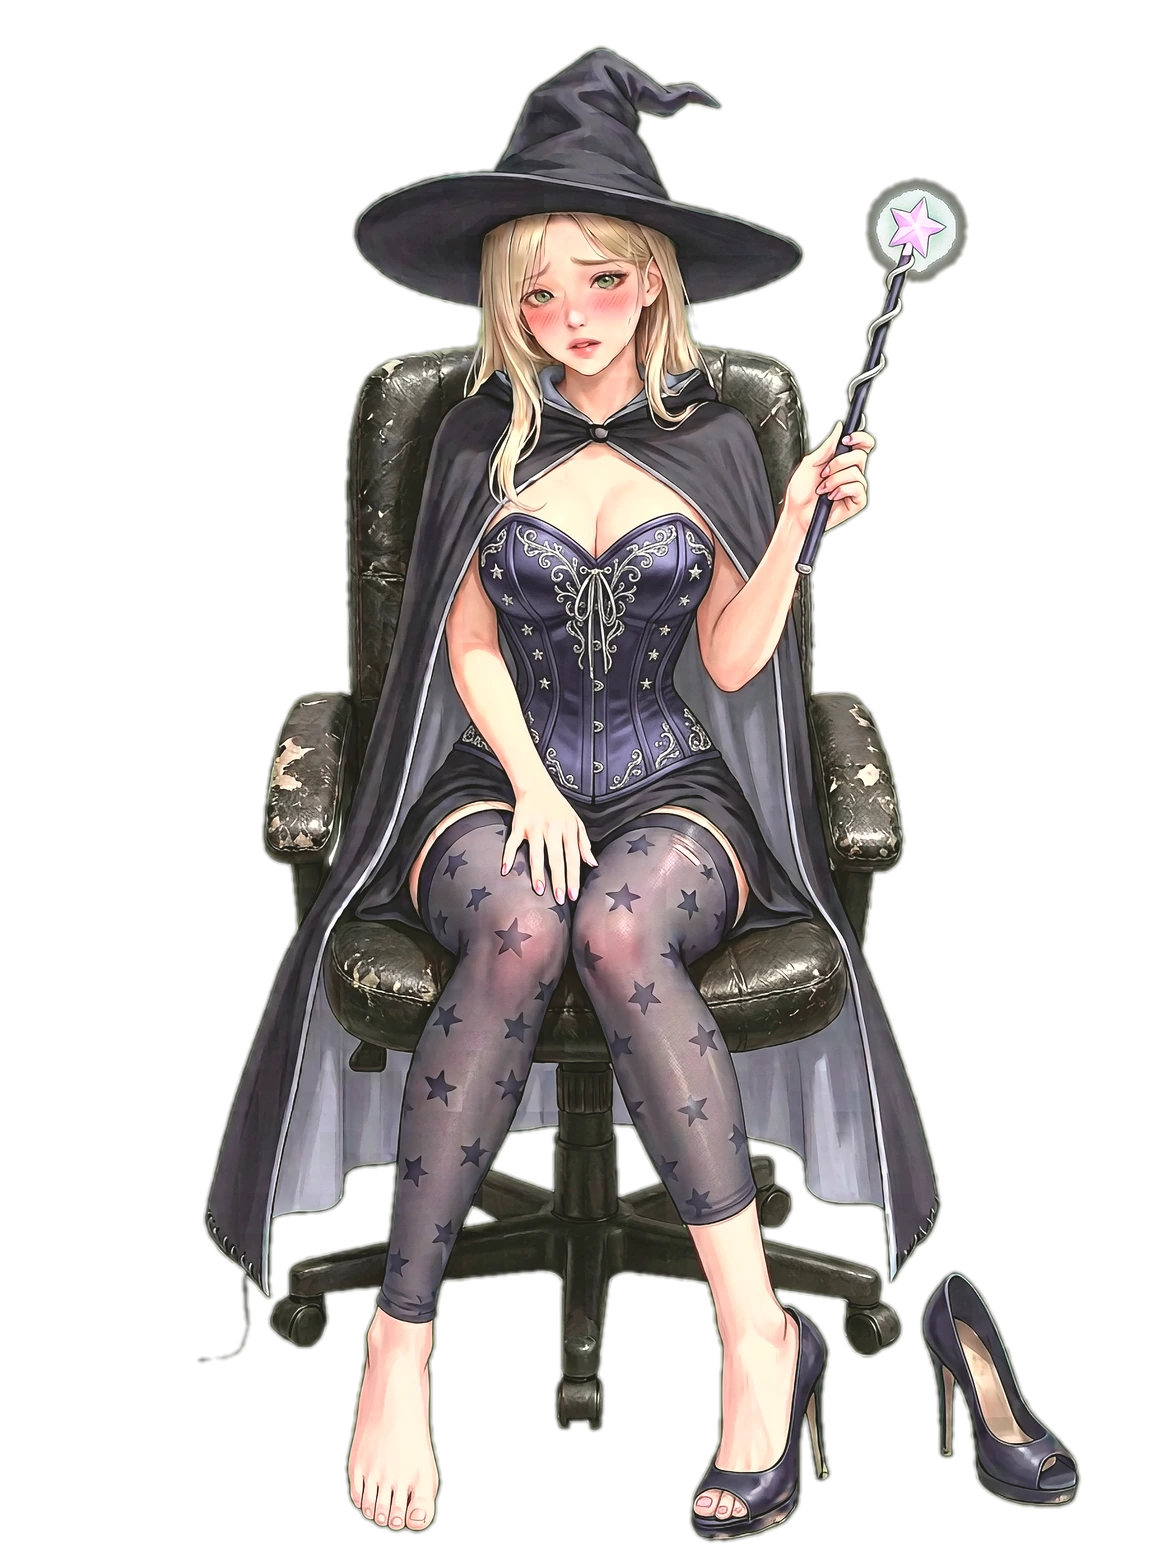
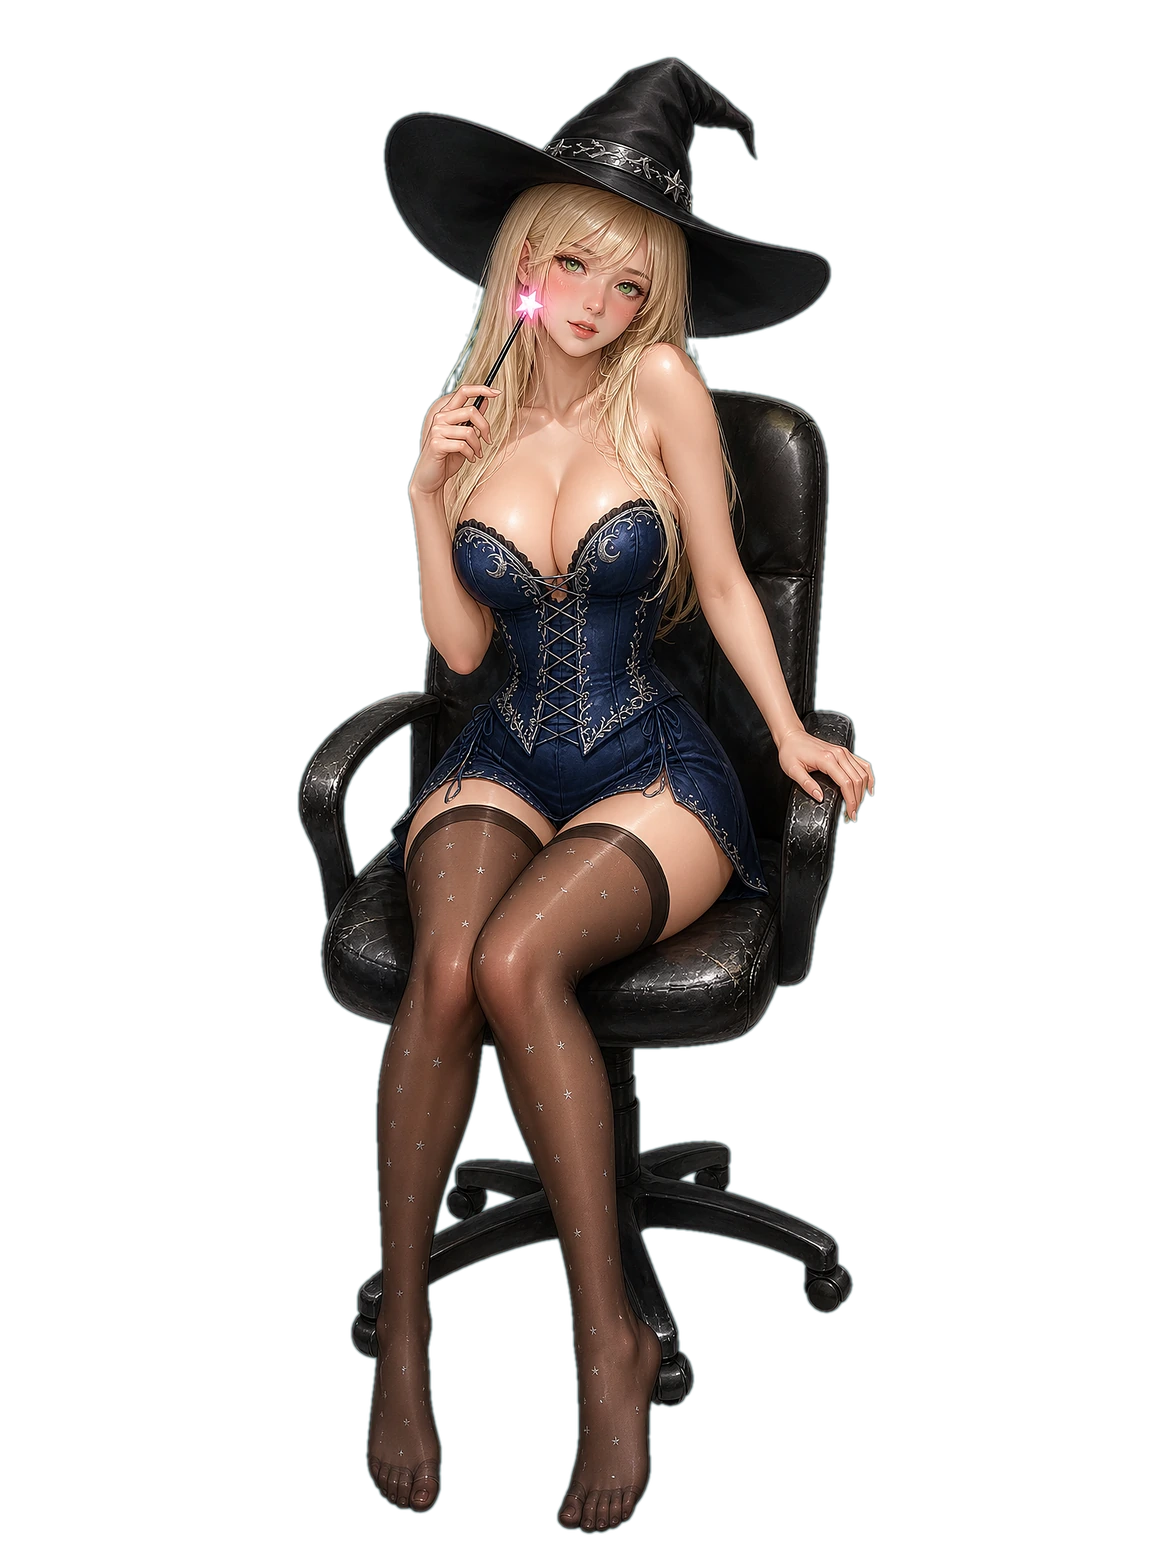
День 4 перерисован с нуля: четыре новые позы в стиле канона дня 2
- Все четыре позы сгенерированы заново чистым text-to-image (без редакции
  прежних генераций): та же мягкая полуреалистичная подача, что у дня 2,
  шляпа, тёмно-синий корсет, чулки в звёздочку, палочка по тексту сцен.
- Туфли убраны совсем (как в каноне — босые ноги в чулках): больше нет
  ни «туфли на полу», ни лишних стоп.
- prep_eyes: новые BOX/EYES под все четыре позы (центры глаз найдены
  автоматически по цвету радужки и проверены на кропах).
- prep_real_d4_chest: геометрия груди пересчитана для всех четырёх поз,
  наклон корпуса 0.
- FRAME дня 4 единый 101% (новый арт снят с одного расстояния),
  BUST_GEO_REAL_D4 обновлён в index.html.

diff --git a/index.html b/index.html
@@ -1871,7 +1871,7 @@ const BUST_GEO_REAL_D3 = {
    вертикали кадра. Поза 1 сидит наискосок — на вертикальной оси движение
    читалось нелогично. Значение — угол поворота контейнера пропа, град. */
 const CHEST_TILT = { '3sg1': -7, '3sg2': -10, '3sg3': -2, '3sg4': -3,
-                     '4sg1': 0, '4sg2': -10, '4sg3': 0, '4sg4': 0 };
+                     '4sg1': 0, '4sg2': 0, '4sg3': 0, '4sg4': 0 };
 /* сила пружины: день 3 — крупнее фигура и мягче ткань, грудь заметнее */
 const CHEST_K = { '3': 1.35, '4': 0.85 };
 const BUST_GEO_D3 = {};
@@ -1879,9 +1879,10 @@ const BUST_GEO_D3 = {};
    открытую кожу над верхней кромкой, вышивку корсета не тянем. В позе 2
    грудь закрыта руками и палочкой — пропов нет (как поза 2 дня 2). */
 const BUST_GEO_REAL_D4 = {
-  sg1: { l:[0.420,0.320,0.050,0.030], r:[0.520,0.316,0.050,0.030] },
-  sg3: { l:[0.415,0.334,0.052,0.028], r:[0.525,0.330,0.052,0.028] },
-  sg4: { l:[0.480,0.336,0.050,0.031], r:[0.580,0.333,0.050,0.031] },
+  sg1: { l:[0.440,0.318,0.052,0.030], r:[0.494,0.314,0.052,0.030] },
+  sg2: { l:[0.469,0.320,0.050,0.029], r:[0.525,0.318,0.050,0.029] },
+  sg3: { l:[0.468,0.325,0.048,0.029], r:[0.537,0.322,0.048,0.029] },
+  sg4: { l:[0.472,0.307,0.048,0.029], r:[0.549,0.304,0.048,0.029] },
 };
 const BUST_GEO_D4 = {};
 
@@ -1927,7 +1928,7 @@ const FRAME = {
   /* день 4: масштаб выровнен по расстоянию между глазами. Отрицательный
      padding-top браузер игнорирует, поэтому кадр задаём только высотой стопки:
      она подобрана так, чтобы туфли в новой позе 4 не срезались снизу. */
-  '4sg1': [99, 0], '4sg2': [104, 0], '4sg3': [101, 0], '4sg4': [102, 0],
+  '4sg1': [101, 0], '4sg2': [101, 0], '4sg3': [101, 0], '4sg4': [101, 0],
 };
 
 function frameSet(day, tag){

diff --git a/tools/prep_real_d4_chest.py b/tools/prep_real_d4_chest.py
@@ -30,16 +30,16 @@ SIDES = PL.SIDES
 # (иначе двигался «пятачок» и физика читалась вялой). Растушёвка при этом
 # гаснет до контура ткани — гейт по краям в prep_light это держит.
 BUST_D4 = {
-    'sg1': ((0.420, 0.320, 0.050, 0.030), (0.520, 0.316, 0.050, 0.030)),   # палочка у лица, руки на бедре
-    'sg2': (None, None),                                                   # закрыта руками и палочкой
-    'sg3': ((0.415, 0.334, 0.052, 0.028), (0.525, 0.330, 0.052, 0.028)),   # палочка вертикально, грудь открыта
-    'sg4': ((0.480, 0.336, 0.050, 0.031), (0.580, 0.333, 0.050, 0.031)),   # рука за головой, корсет сполз
+    'sg1': ((0.440, 0.318, 0.052, 0.030), (0.494, 0.314, 0.052, 0.030)),   # сидит, палочка у лица
+    'sg2': ((0.469, 0.320, 0.050, 0.029), (0.525, 0.318, 0.050, 0.029)),   # свернулась, звезда у ключиц
+    'sg3': ((0.468, 0.325, 0.048, 0.029), (0.537, 0.322, 0.048, 0.029)),   # рука за шеей, палочка вверх
+    'sg4': ((0.472, 0.307, 0.048, 0.029), (0.549, 0.304, 0.048, 0.029)),   # откинулась, палочка за головой
 }
 
 # наклон корпуса по позе (град, как CHEST_TILT в index.html). Контейнер пропа
 # в вёрстке повёрнут на этот угол, поэтому ОКНО в арте поворачиваем так же —
 # иначе повёрнутый проп не совпадает с вырезом и в груди видны чёрные серпы.
-TILT_D4 = {'sg1': 0, 'sg2': -4, 'sg3': 0, 'sg4': 0}
+TILT_D4 = {'sg1': 0, 'sg2': 0, 'sg3': 0, 'sg4': 0}
 
 
 def _sym(tbl):

diff --git a/tools/prep_eyes.py b/tools/prep_eyes.py
@@ -52,10 +52,10 @@ BOX = {
     '3sg2': (0.050, 0.100, 0.360, 0.330),
     '3sg3': (0.360, 0.040, 0.660, 0.270),
     '3sg4': (0.440, 0.020, 0.760, 0.260),
-    '4sg1': (0.360, 0.100, 0.720, 0.300),
-    '4sg2': (0.170, 0.135, 0.450, 0.325),
-    '4sg3': (0.380, 0.100, 0.660, 0.290),
-    '4sg4': (0.315, 0.075, 0.605, 0.285),
+    '4sg1': (0.395, 0.105, 0.645, 0.290),
+    '4sg2': (0.455, 0.115, 0.665, 0.290),
+    '4sg3': (0.415, 0.115, 0.635, 0.275),
+    '4sg4': (0.405, 0.105, 0.625, 0.255),
 }
 # глаза в долях КРОПА: (x0,y0,x1,y1) — левый по картинке, правый по картинке
 EYES = {
@@ -71,10 +71,10 @@ EYES = {
     '3sg2': ((0.360, 0.600, 0.500, 0.720), (0.545, 0.490, 0.680, 0.610)),
     '3sg3': ((0.350, 0.530, 0.485, 0.640), (0.600, 0.510, 0.725, 0.620)),
     '3sg4': ((0.221, 0.464, 0.371, 0.560), (0.396, 0.578, 0.546, 0.674)),
-    '4sg1': ((0.200, 0.395, 0.315, 0.485), (0.400, 0.355, 0.515, 0.445)),
-    '4sg2': ((0.275, 0.525, 0.420, 0.625), (0.495, 0.505, 0.645, 0.605)),
-    '4sg3': ((0.228, 0.443, 0.372, 0.560), (0.452, 0.388, 0.598, 0.505)),
-    '4sg4': ((0.425, 0.480, 0.565, 0.575), (0.615, 0.420, 0.755, 0.515)),
+    '4sg1': ((0.310, 0.350, 0.460, 0.460), (0.485, 0.376, 0.635, 0.486)),
+    '4sg2': ((0.210, 0.250, 0.355, 0.310), (0.454, 0.356, 0.579, 0.426)),
+    '4sg3': ((0.216, 0.403, 0.381, 0.513), (0.442, 0.267, 0.602, 0.377)),
+    '4sg4': ((0.239, 0.467, 0.379, 0.587), (0.417, 0.331, 0.562, 0.451)),
 }
 MOODS = ('blink', 'shy')
 GEO = {}                 # key -> [left, top, width, height] в долях кадра

diff --git a/tools/prep_real_d4.py b/tools/prep_real_d4.py
@@ -42,7 +42,10 @@ def main(argv):
         print(f'{tag}:')
         base = Image.open(src).convert('RGB')
         art = HD.sharpen(HD.art_from(base, HD.FACTOR))
-        art = canon().apply(art, soft=0.85)
+        # новые генерации дня 4 нарисованы уже в палитре канона: подгонка LAB
+        # им не нужна и только выбеливает кожу (включается D4_CANON=1)
+        if os.environ.get('D4_CANON') == '1':
+            art = canon().apply(art, soft=0.85)
         PR.save(art, os.path.join(OUT, f'art_real_day4_{tag}.webp'), master=True)
         PR.save(art, os.path.join(OUT, f'art_real_day4_{tag}_sm.webp'), master=False)
 
